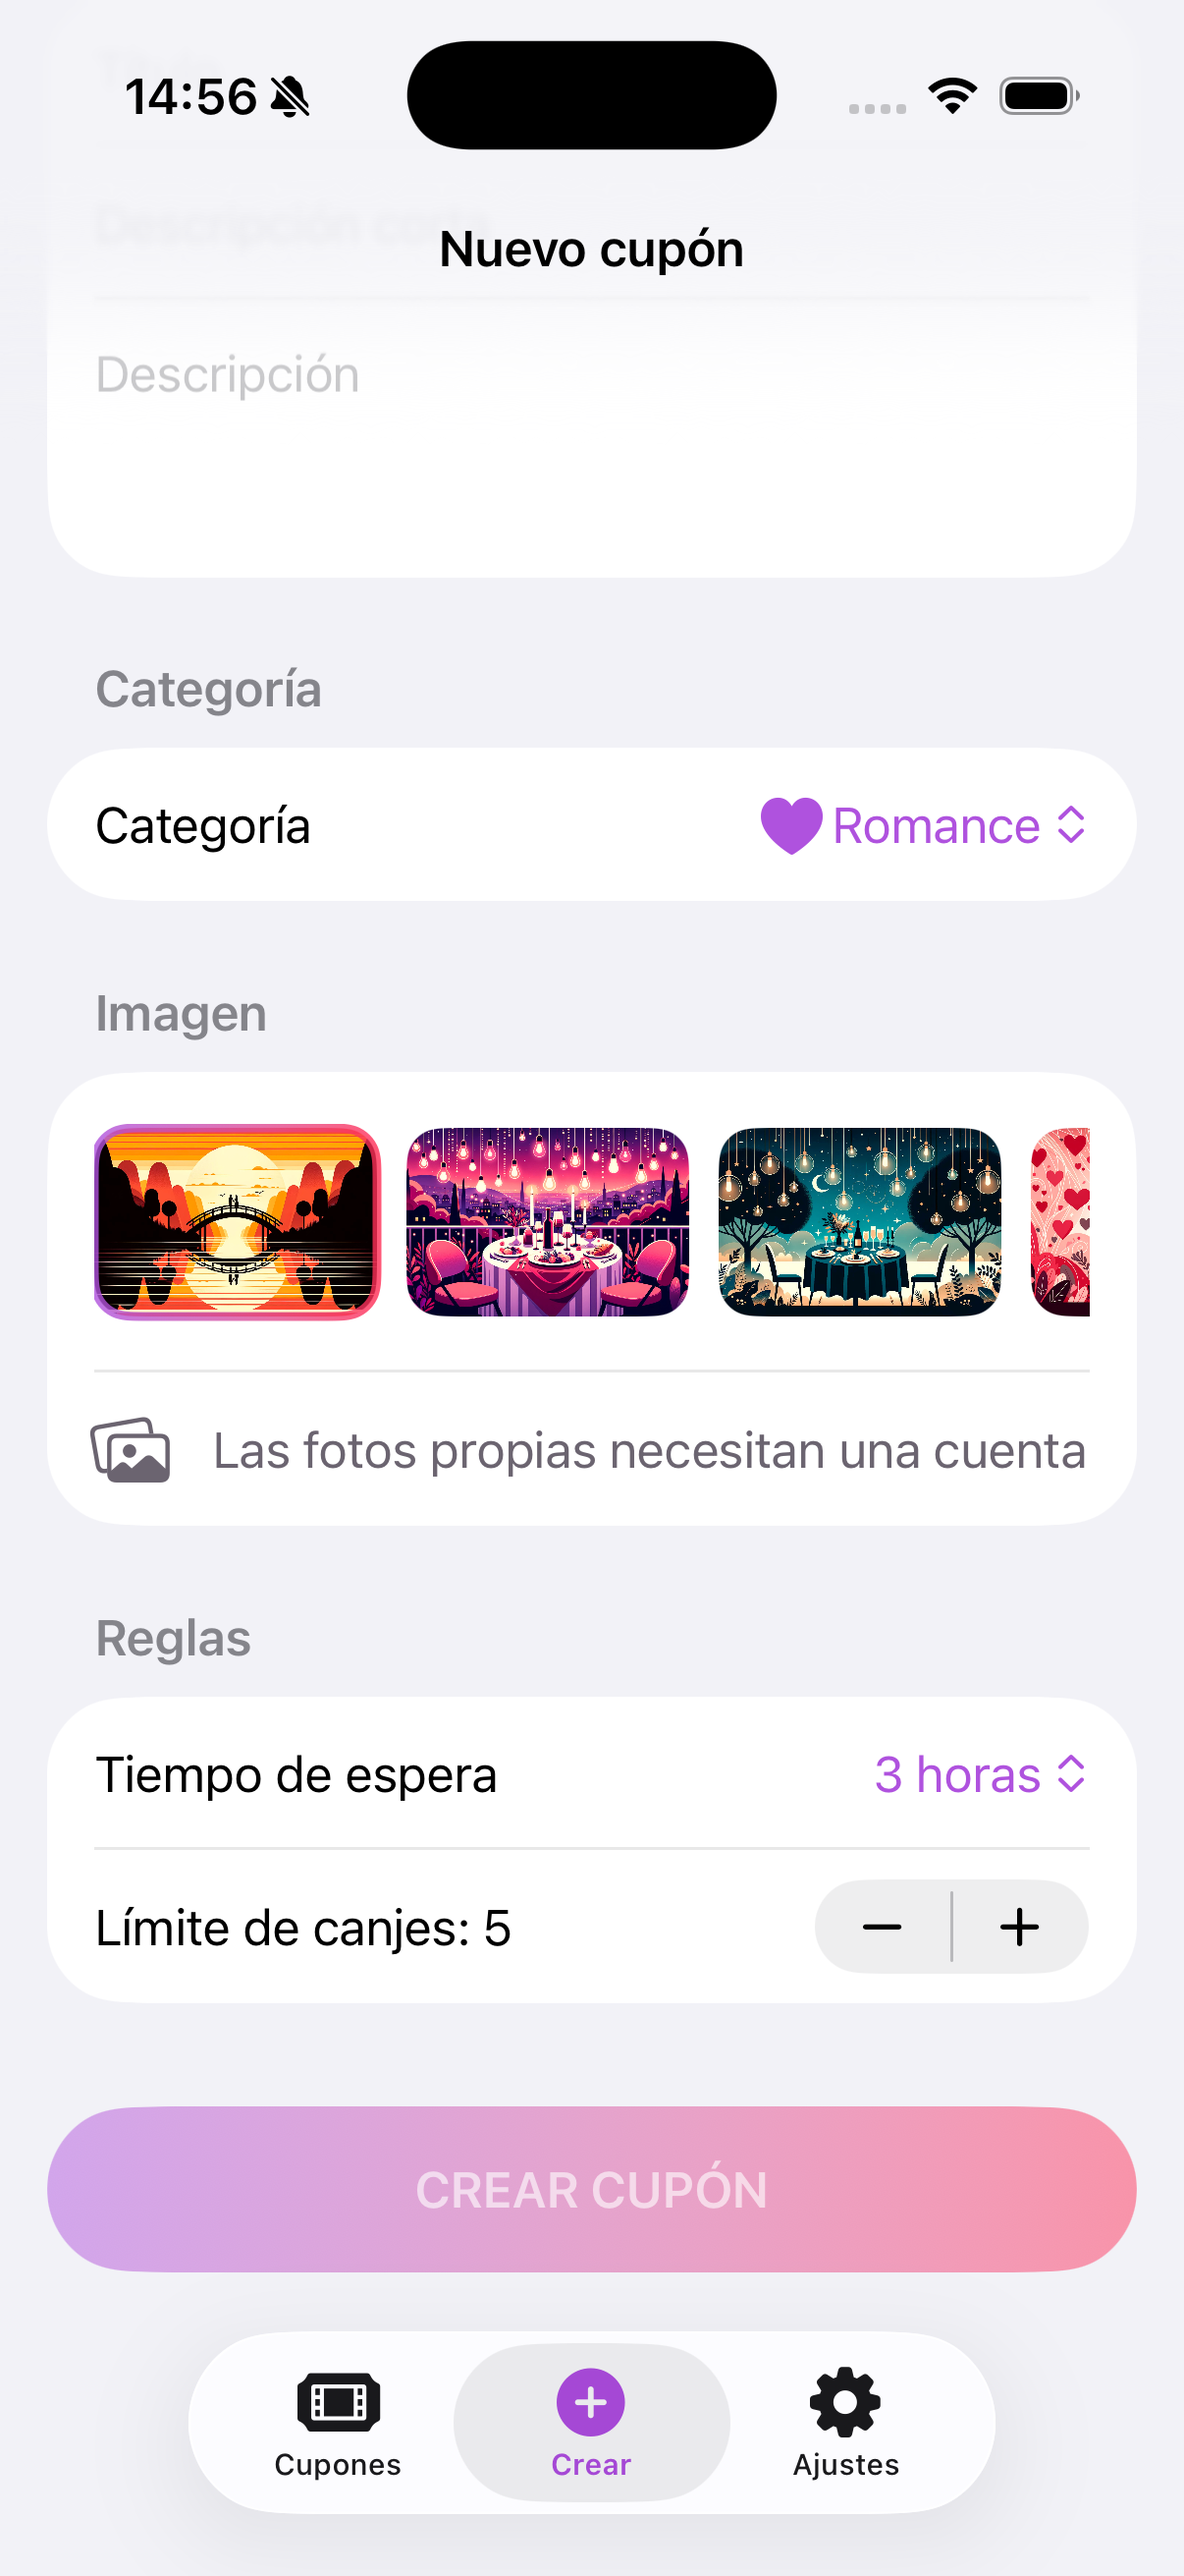
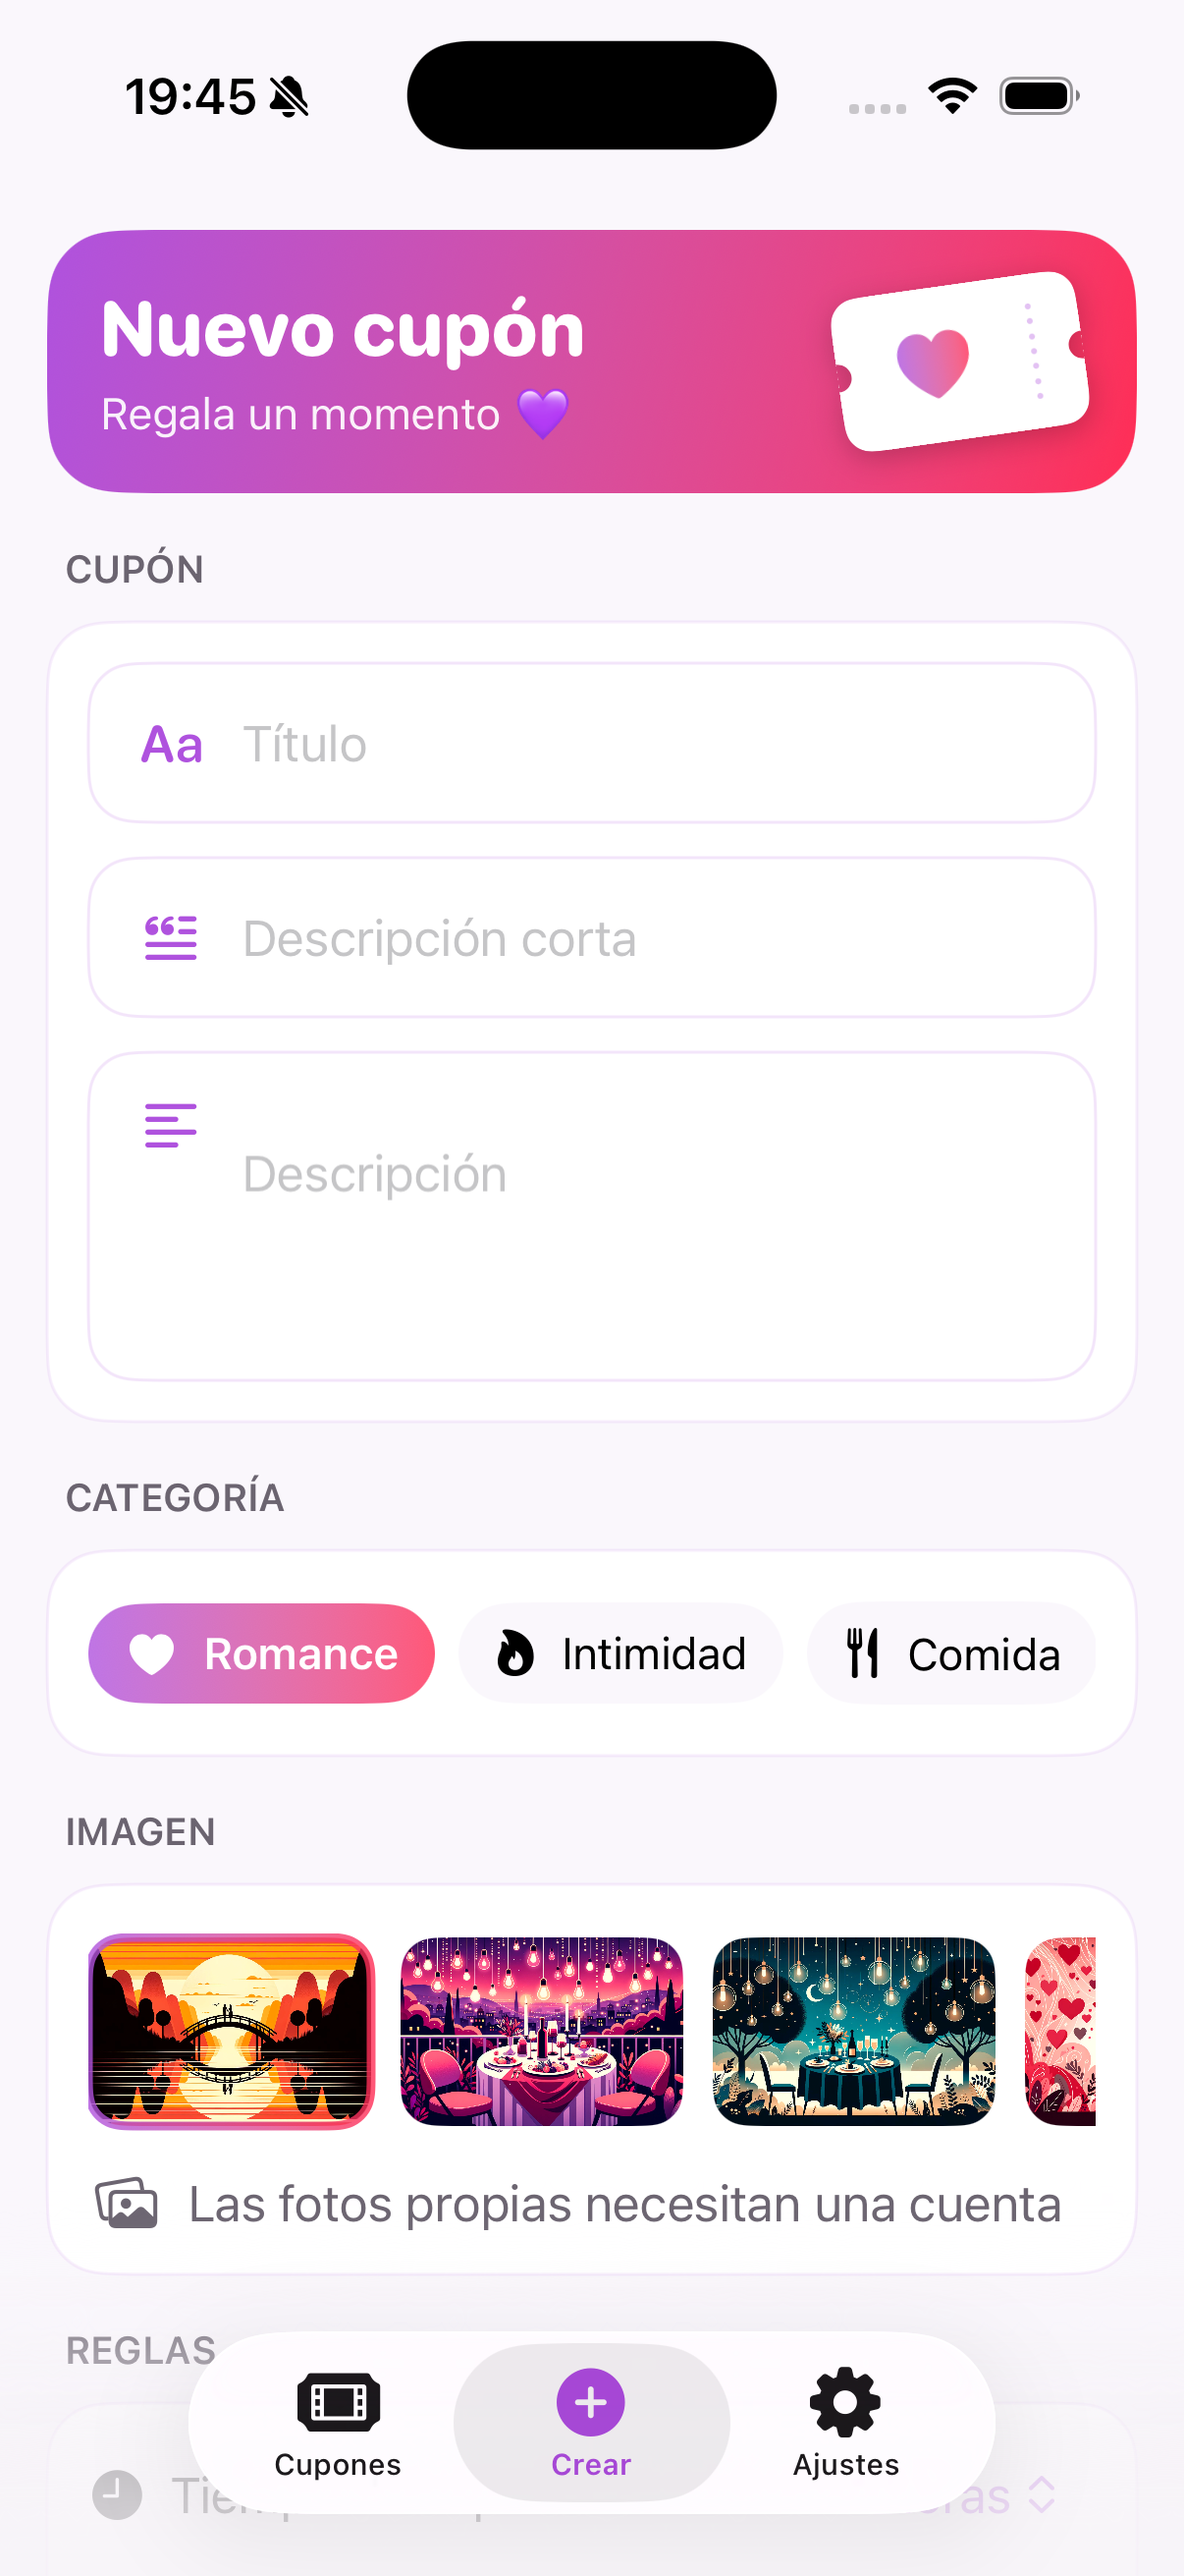
docs: capturas del rediseño interior (lista, crear, ajustes, historial)

diff --git a/README.md b/README.md
@@ -27,16 +27,18 @@ App iOS nativa de cupones canjeables entre parejas: crea cupones personalizados 
 | Bienvenida | Lista | Detalle |
 |:---:|:---:|:---:|
 | <img src="docs/capturas/bienvenida.png" width="230" /> | <img src="docs/capturas/lista.png" width="230" /> | <img src="docs/capturas/detalle.png" width="230" /> |
-| **Crear** | **Modo pareja** | **Historial** |
-| <img src="docs/capturas/crear.png" width="230" /> | <img src="docs/capturas/pareja.png" width="230" /> | <img src="docs/capturas/historial.png" width="230" /> |
+| **Crear** | **Ajustes** | **Historial** |
+| <img src="docs/capturas/crear.png" width="230" /> | <img src="docs/capturas/ajustes.png" width="230" /> | <img src="docs/capturas/historial.png" width="230" /> |
 
 <sub>Gradiente morado→rosa + Liquid Glass + tarjetas foto-a-sangre: el lenguaje visual de Cuponéame.</sub>
 
 | Login | Registro |
 |:---:|:---:|
 | <img src="docs/capturas/login.png" width="230" /> | <img src="docs/capturas/registro.png" width="230" /> |
-| **Modo oscuro** | **Widget** |
-| <img src="docs/capturas/oscuro.png" width="230" /> | <img src="docs/capturas/widget.png" width="230" /> |
+| **Modo pareja** | **Modo oscuro** |
+| <img src="docs/capturas/pareja.png" width="230" /> | <img src="docs/capturas/oscuro.png" width="230" /> |
+| **Widget** | |
+| <img src="docs/capturas/widget.png" width="230" /> | |
 
 <sub>Identidad rediseñada: logo vectorial de ticket (el mismo del AppIcon), tema Sistema/Claro/Oscuro y widget «Próximo cupón».</sub>
 
@@ -155,6 +157,7 @@ firebase deploy --only firestore:rules,storage
 - [x] Widget «Próximo cupón» (WidgetKit + App Group)
 - [x] Reglas de seguridad de Firestore/Storage por usuario (en el repo; falta desplegar + App Check)
 - [x] Rediseño de identidad: logo vectorial + AppIcon nuevos, bienvenida animada y login/registro de marca
+- [x] Rediseño interior: lista con saludo y buscador de marca, Crear con banner y tarjetas, carnet degradado en Ajustes e Historial con resumen
 - [ ] Push remota (APNs/FCM) con la app cerrada — requiere Cloud Functions y clave APNs
 
 ---
